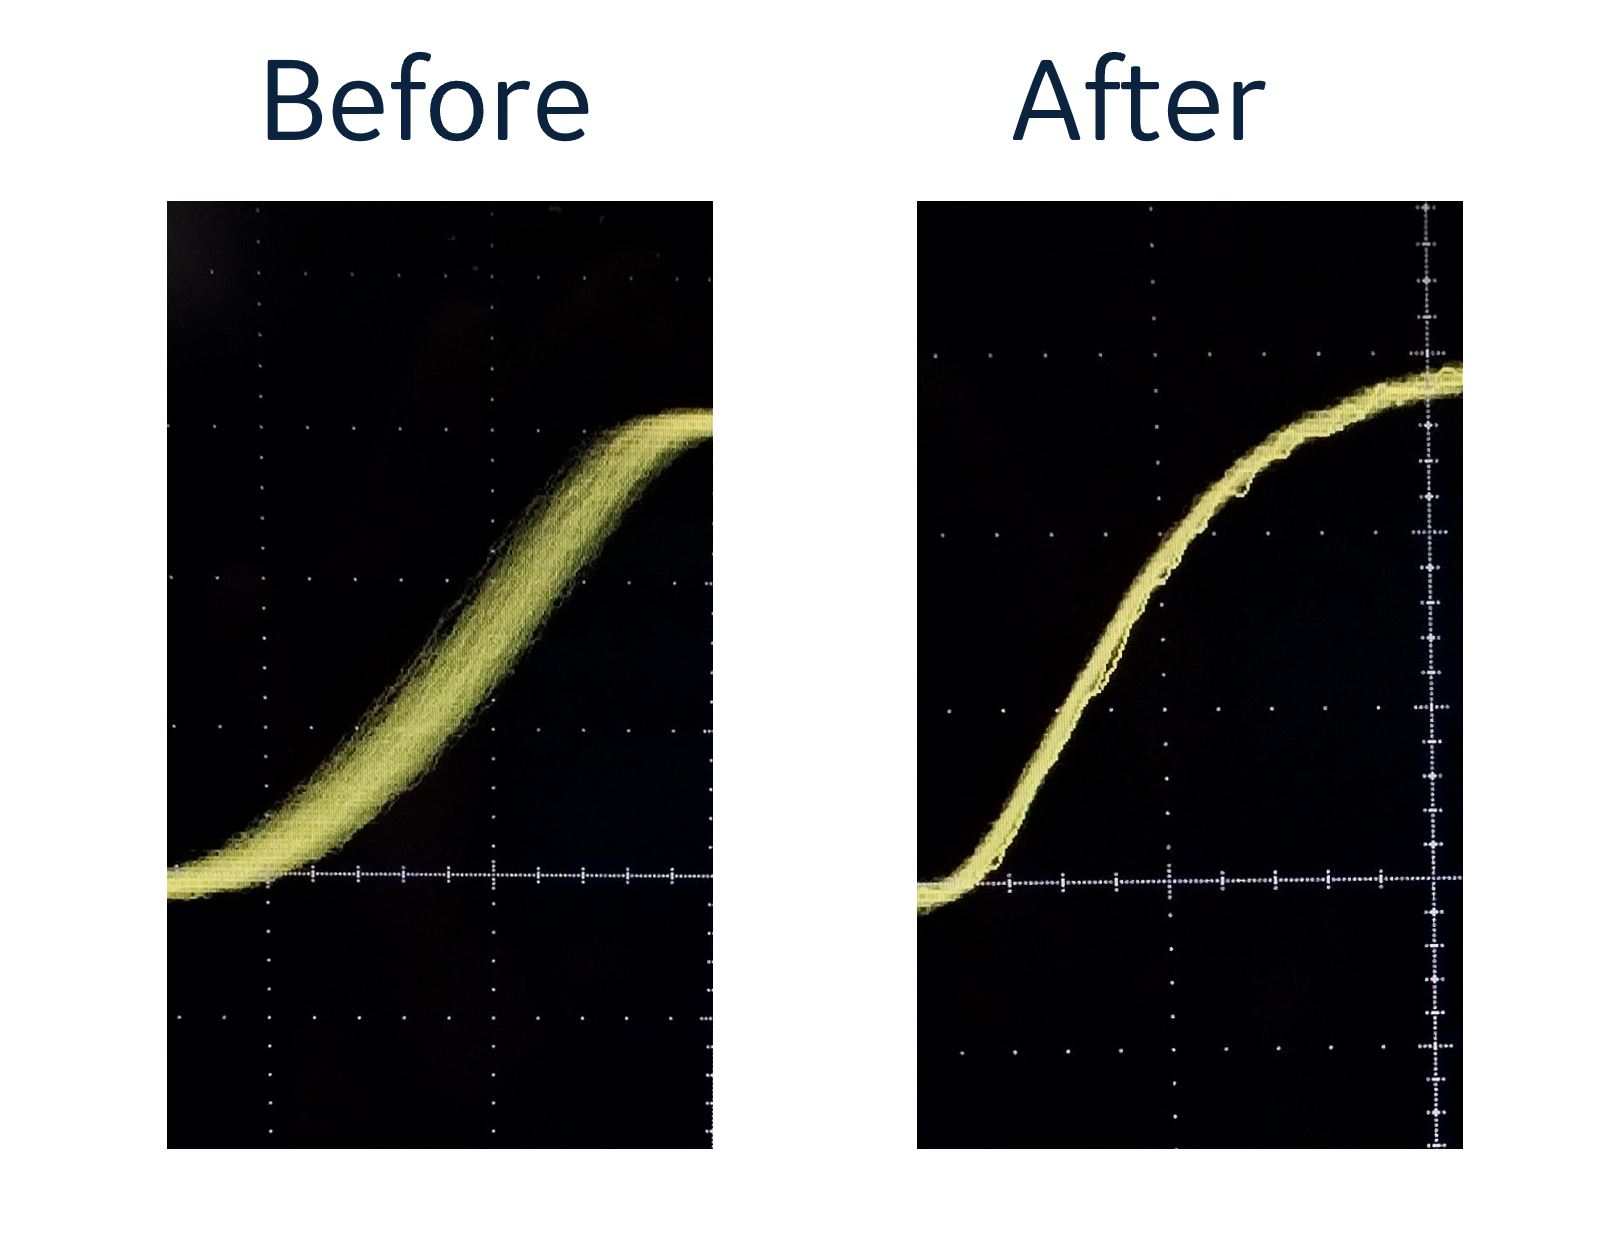
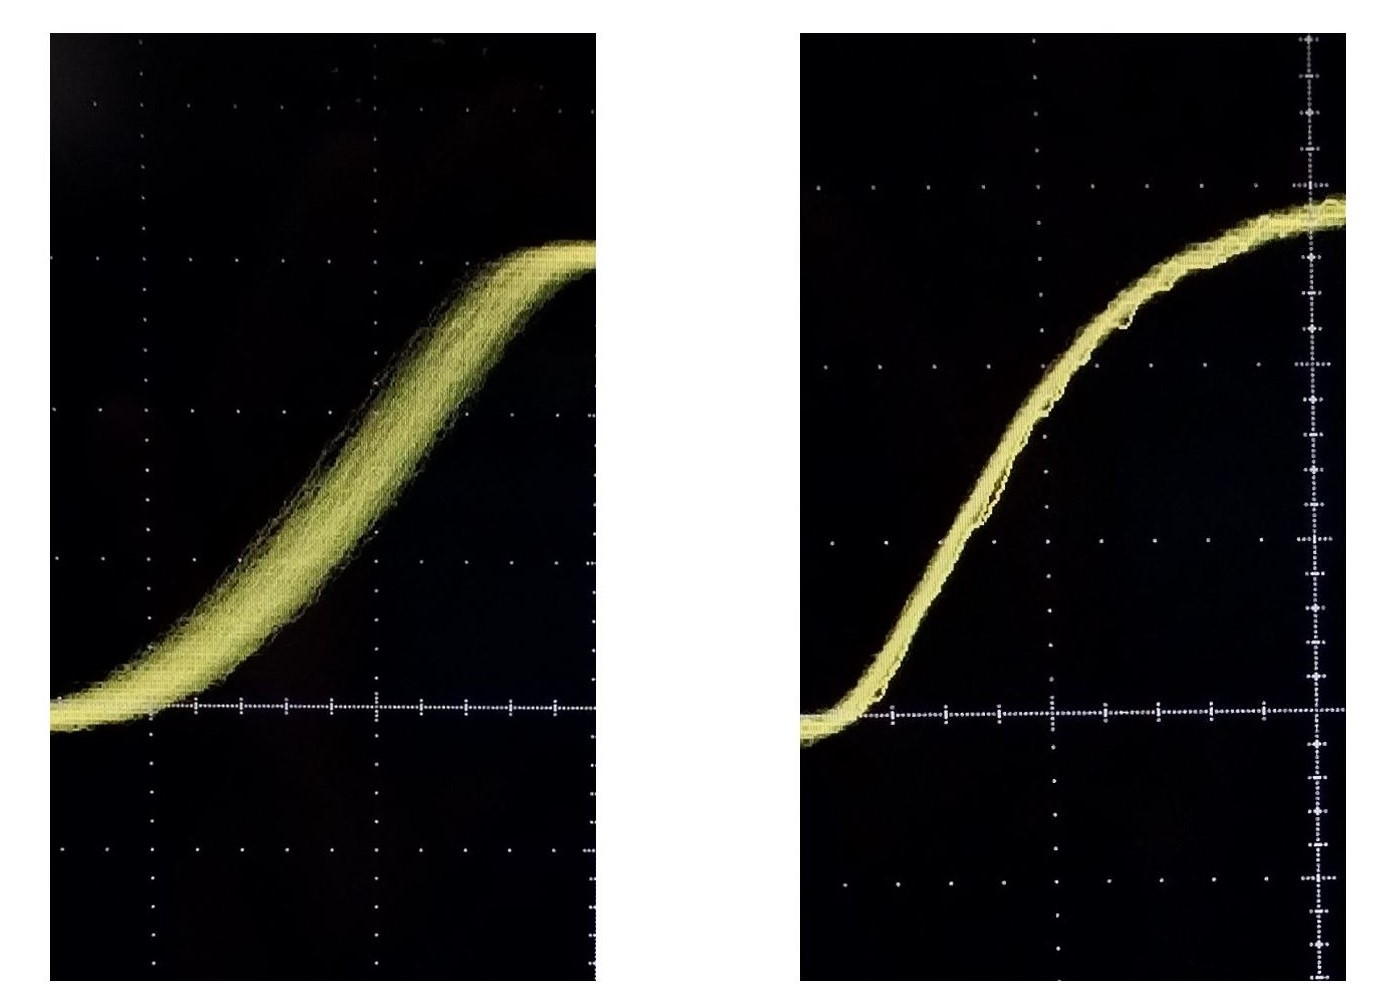
uls

diff --git a/_projects/1_project.md b/_projects/1_project.md
@@ -15,7 +15,7 @@ LIMITED CONTRIBUTIONS LISTED BELOW DUE TO CONFIDENTIALITY REQUIREMENTS AT GE.
         {% include figure.html path="assets/img/uls_tx.JPG" title="example image" class="img-fluid rounded z-depth-1" %}
 </div>
 <div class="caption">
-    Segmentation results
+    Trnasmit pulse shape improvement
 </div>
 
 Designed a new boost converter adapted transmit circuitry to optimise for power draw on the sensor. Used a charge pump mechanism to deliver consistent power output throughout the transmit pulse which drastically improves the sensitivity and lower depths. Tapering was a problem plaguing the predicate causing inconsistencies in the pickup at varied depths which was solved eventually in the new design. Optimised the circuit for space and ensured thermal loss was minimal as heat dissipation was a problem due to the IP68 requirements of the sensor.
@@ -24,14 +24,7 @@ Designed a new boost converter adapted transmit circuitry to optimise for power 
         {% include figure.html path="assets/img/uls_sensdpc.JPG" title="example image" class="img-fluid rounded z-depth-1" %}
 </div>
 <div class="caption">
-    Segmentation results
-</div>
-
-<div class="img">
-        {% include figure.html path="assets/img/uls_senselec.png" title="example image" class="img-fluid rounded z-depth-1" %}
-</div>
-<div class="caption">
-    Segmentation results
+    Sensitivity improvement from prototype and DoE to demonstrate
 </div>
 
 The receive circuitry was drastically changed from the predicate as well. We introduced a tunable impedance element for maximising noiseless gain in the system and regularising gain across sensors despite manufacturing variabilities. The sensitivity was also improved drastically by redesigning the front end for low bias currents and higher input impedances preventing smaller signals from being dissipated. I introduced a new demodulation strategy for miniaturisation, performed gain rebalancing across the entire signal chain, optimised the RF amplifiers to accommodate the appropriate bandwidth, redesigned the high-order filters and introduced a mixer circuitry to accommodate for two channel sensing using one single ADC. I also drastically improved the noise performance of the sensor. 
@@ -40,14 +33,14 @@ The receive circuitry was drastically changed from the predicate as well. We int
         {% include figure.html path="assets/img/uls_noise.png" title="example image" class="img-fluid rounded z-depth-1" %}
 </div>
 <div class="caption">
-    Segmentation results
+    Noise levels achieved in a high gain system
 </div>
 
 <div class="img">
         {% include figure.html path="assets/img/uls_jitter.JPG" title="example image" class="img-fluid rounded z-depth-1" %}
 </div>
 <div class="caption">
-    Segmentation results
+    Jitter improvement demonstrating picosecond level jitter
 </div>
 
 Clock jitter is critical to performance of the ultrasound. Due to the way we demodulate in the RF domain, jitter can critically affect our noise levels as we even demodulate the directly reflected signals that are transmitted by the transducer. Jitter would mean we transmit one frequency and demodulate that very wave with a slightly different frequency giving rise to harmonics in our band of operation and thus an unwanted noise in our system. Need to meet jitter spec under 10ps given the sensitivity of the device.
@@ -61,21 +54,21 @@ I’ve come up with an innovative low-cost low power solution to generate reconf
         {% include figure.html path="assets/img/uls_crosstalksim.JPG" title="example image" class="img-fluid rounded z-depth-1" %}
 </div>
 <div class="caption">
-    Segmentation results
+    Simulation of crosstalk in the downcoverter
 </div>
 
 <div class="img">
         {% include figure.html path="assets/img/uls_AGC.png" title="example image" class="img-fluid rounded z-depth-1" %}
 </div>
 <div class="caption">
-    Segmentation results
+    Logarithmic loop automatic gain control block
 </div>
 
 <div class="img">
         {% include figure.html path="assets/img/uls_dspfilters.JPG" title="example image" class="img-fluid rounded z-depth-1" %}
 </div>
 <div class="caption">
-    Segmentation results
+    Low latency shaping filters for audio response
 </div>
 
 I have designed the automatic gain control block in the DSP core of the microcontroller to help normalise the receive signal and make it easier for the heart rate algorithm to work. I also implemented a harmonic elimination technique using this very AGC I designed that helped solve a critical crosstalk problem. I have resolved major performance issues on the free-running frame-based autocorrelation algorithm and the control loop used to detect fetal movement. I have designed multiple low latency filters and developed other signal conditioning blocks like the envelope detector and the audio equaliser. 
@@ -84,7 +77,7 @@ I have designed the automatic gain control block in the DSP core of the microcon
         {% include figure.html path="assets/img/uls_gluemodel.JPG" title="example image" class="img-fluid rounded z-depth-1" %}
 </div>
 <div class="caption">
-    Segmentation results
+    FEM simulation with varying glue thickness
 </div>
 
 To tackle process issues related to manufacturing of the transducer and the glueing involved I started modelling the PZT being used and the fully assembled transducer. Started out with fitting the FEM parameters using off the shelf PZT’s available publicly. Due to coupling of the radial and thickness mode there were considerable complexities in modelling. All parameters had to be fine tuned to match the measurements made in the lab. After assembly there was a significant change in the characteristics of the transducers because of the processes involved and the next stage was to model this. The plastics and glue were then integrated into the model next. This model was again tested with the assembled transducers and parameters were fine tuned here again. To understand the effect due to process variability of glueing, the thickness was varied, and the simulations were performed to evaluate performance across a large batch of manufactured transducers.
@@ -93,14 +86,14 @@ To tackle process issues related to manufacturing of the transducer and the glue
         {% include figure.html path="assets/img/uls_modelsens.JPG" title="example image" class="img-fluid rounded z-depth-1" %}
 </div>
 <div class="caption">
-    Segmentation results
+    Pressure sensitivity simulation of transducer
 </div>
 
 <div class="img">
         {% include figure.html path="assets/img/uls_elecmodel.JPG" title="example image" class="img-fluid rounded z-depth-1" %}
 </div>
 <div class="caption">
-    Segmentation results
+    Electrical sensitivity simulation integrated with transducer sensitivity
 </div>
 
 Assuming a nominal thickness the complete transducer model was exported and then used to model the pressure sensitivity of the transducer and electro-mechanical interface. It was also used to model the transmit and receive sensitivity by using approximated mathematical models of the transmit and receive circuitry.
